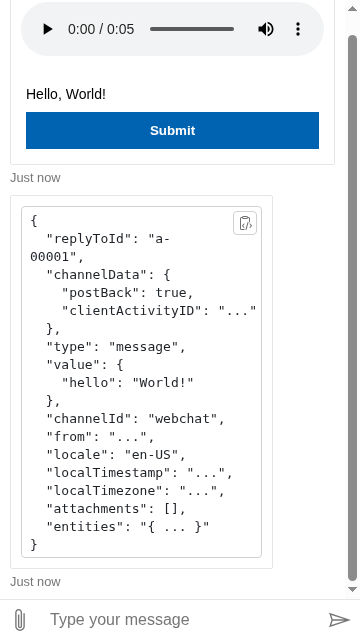
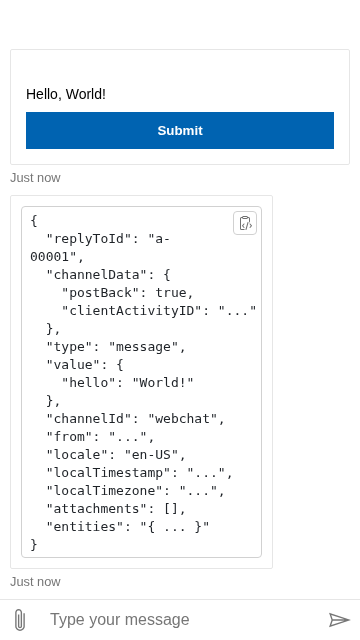
Fix flaky tests

diff --git a/__tests__/html2/markdown/codeBlockCopyButton/behavior.highlighted.html b/__tests__/html2/markdown/codeBlockCopyButton/behavior.highlighted.html
@@ -91,7 +91,8 @@ Cupidatat nulla duis dolor nulla ut pariatur minim incididunt quis adipisicing v
         await host.sendKeys('ENTER');
 
         // THEN: The copy button should change to "Copied".
-        await host.snapshot('local');
+        // NOTE: The screenshot is time-sensitive, do not wait until stable.
+        await host.snapshot('local', { stable: false });
 
         // WHEN: Paste into plain text and rich text text box.
         await host.click(document.querySelector('[data-testid="paste box"]'));

diff --git a/__tests__/html2/replyToId/cardAction/audioCard.html b/__tests__/html2/replyToId/cardAction/audioCard.html
@@ -64,6 +64,10 @@
           type: 'message'
         });
 
+        // Hide the controls because the timeline contains buffer size which will never converge.
+        // See `../animationcard.html` for details.
+        document.querySelector('audio').controls = false;
+
         const submitButton = pageElements.activities()[0].querySelector('.ac-pushButton');
 
         const { activity, resolveAll } = await directLine.actPostActivity(() => host.click(submitButton));

diff --git a/packages/test/harness/src/host/common/host/snapshot.js b/packages/test/harness/src/host/common/host/snapshot.js
@@ -10,7 +10,13 @@ module.exports = webDriver =>
   async function snapshot(mode, options) {
     await allImagesCompleted(webDriver);
 
-    const screenshot = await takeStabilizedScreenshot(webDriver);
+    let screenshot;
+
+    if (options?.stable === false) {
+      screenshot = await webDriver.takeScreenshot();
+    } else {
+      screenshot = await takeStabilizedScreenshot(webDriver);
+    }
 
     try {
       expect(screenshot).toMatchImageSnapshot(

diff --git a/__tests__/html2/feedbackForm/behavior.resetByEscapeKey.html b/__tests__/html2/feedbackForm/behavior.resetByEscapeKey.html
@@ -124,6 +124,9 @@
         // THEN: Should focus on the dislike button.
         await waitFor(() => expect(document.activeElement).toBe(pageElements.allByTestId(testIds.feedbackButton)[1]));
 
+        // NOTE: Wait for tooltip to show.
+        await testHelpers.sleep(400);
+
         // THEN: Should match the snapshot.
         await host.snapshot('local');
 
